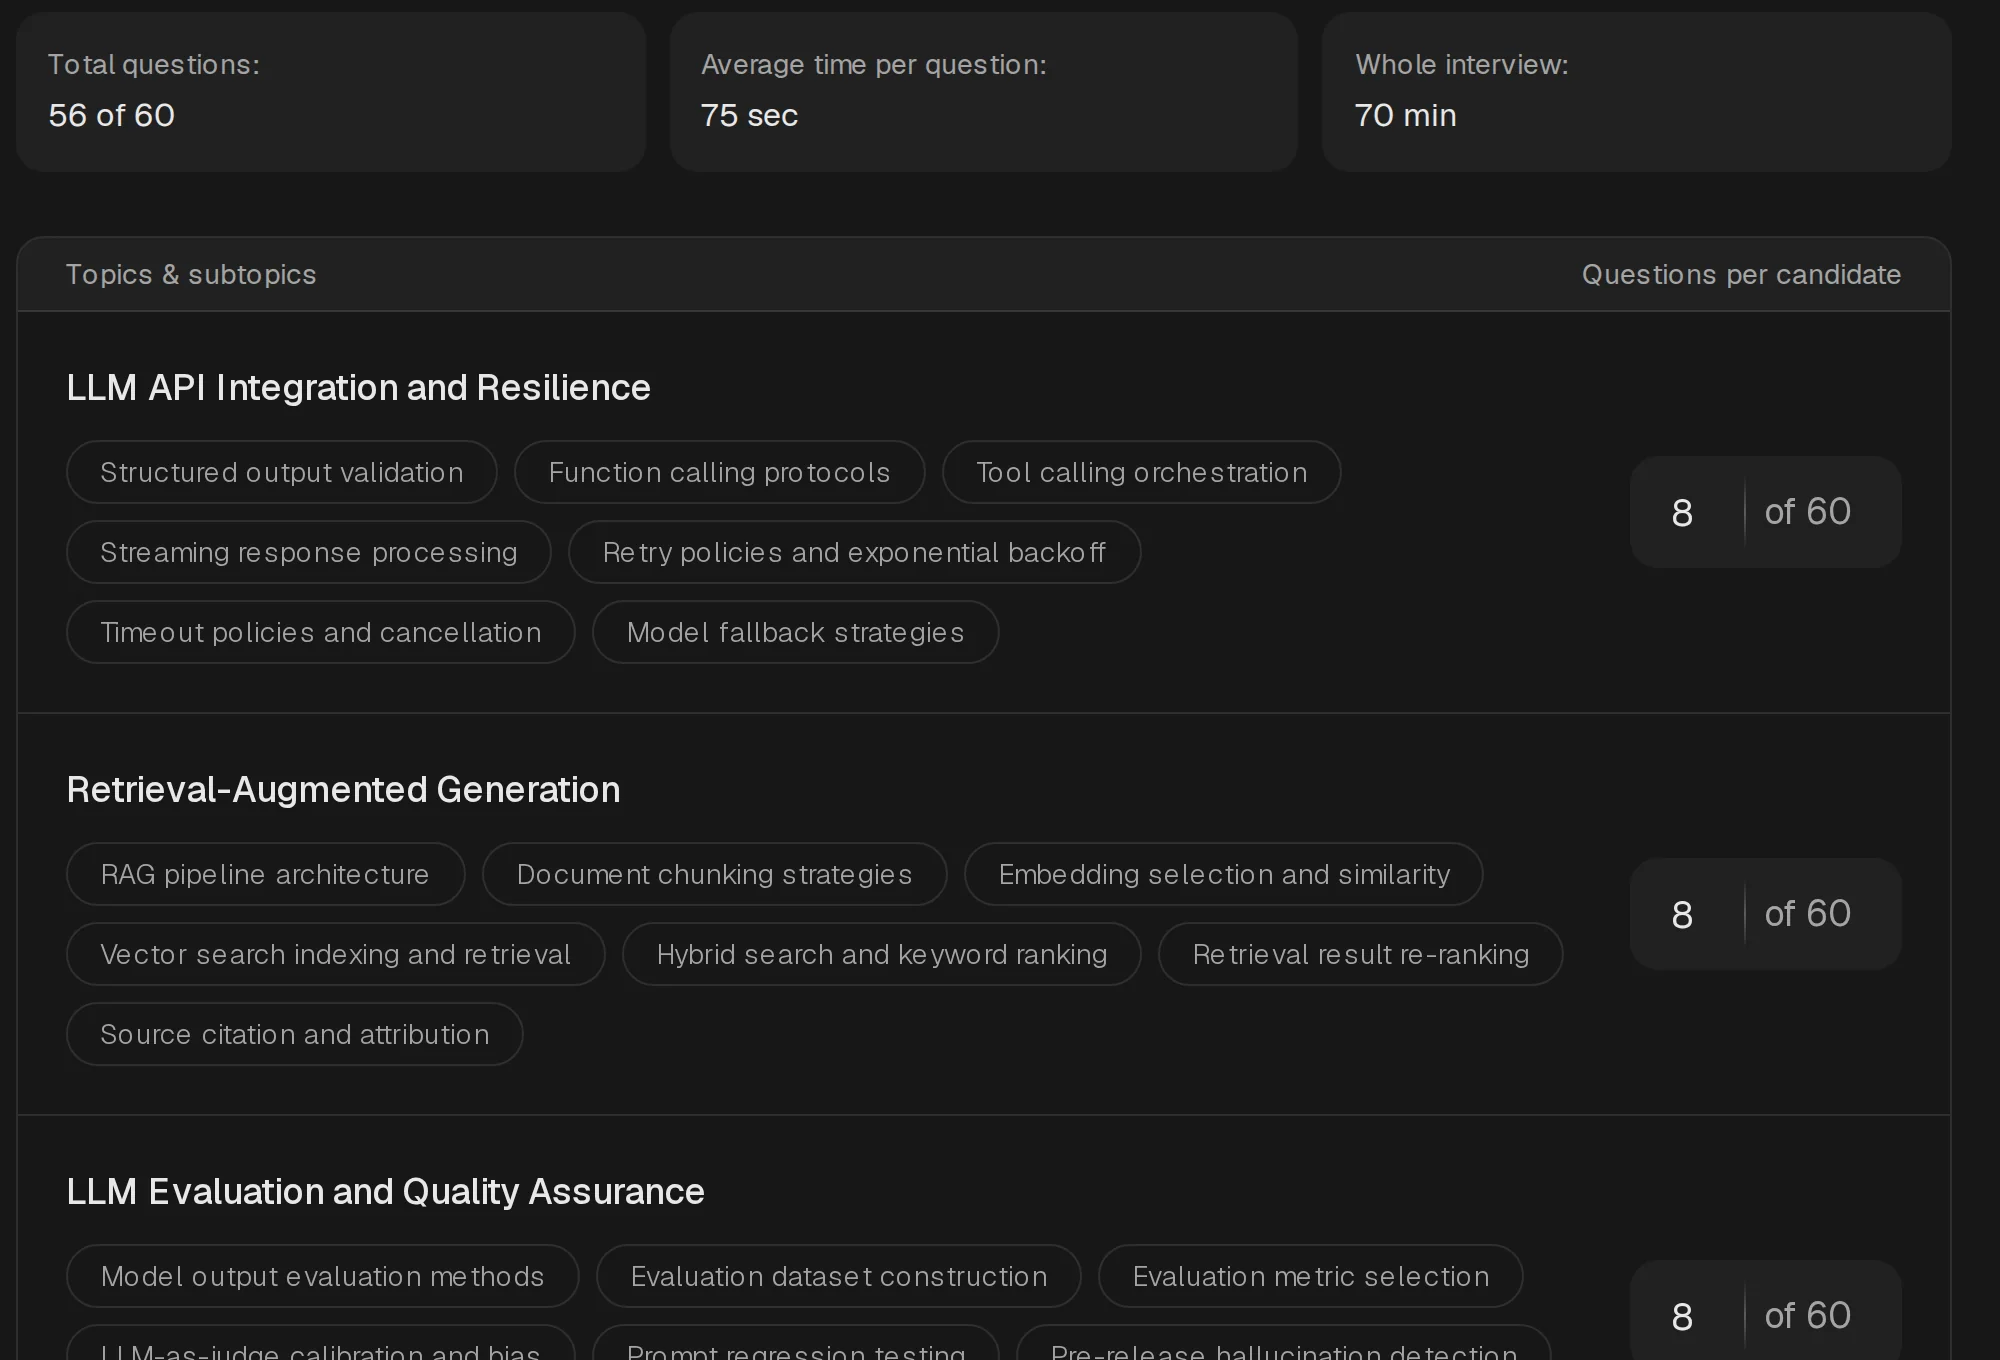
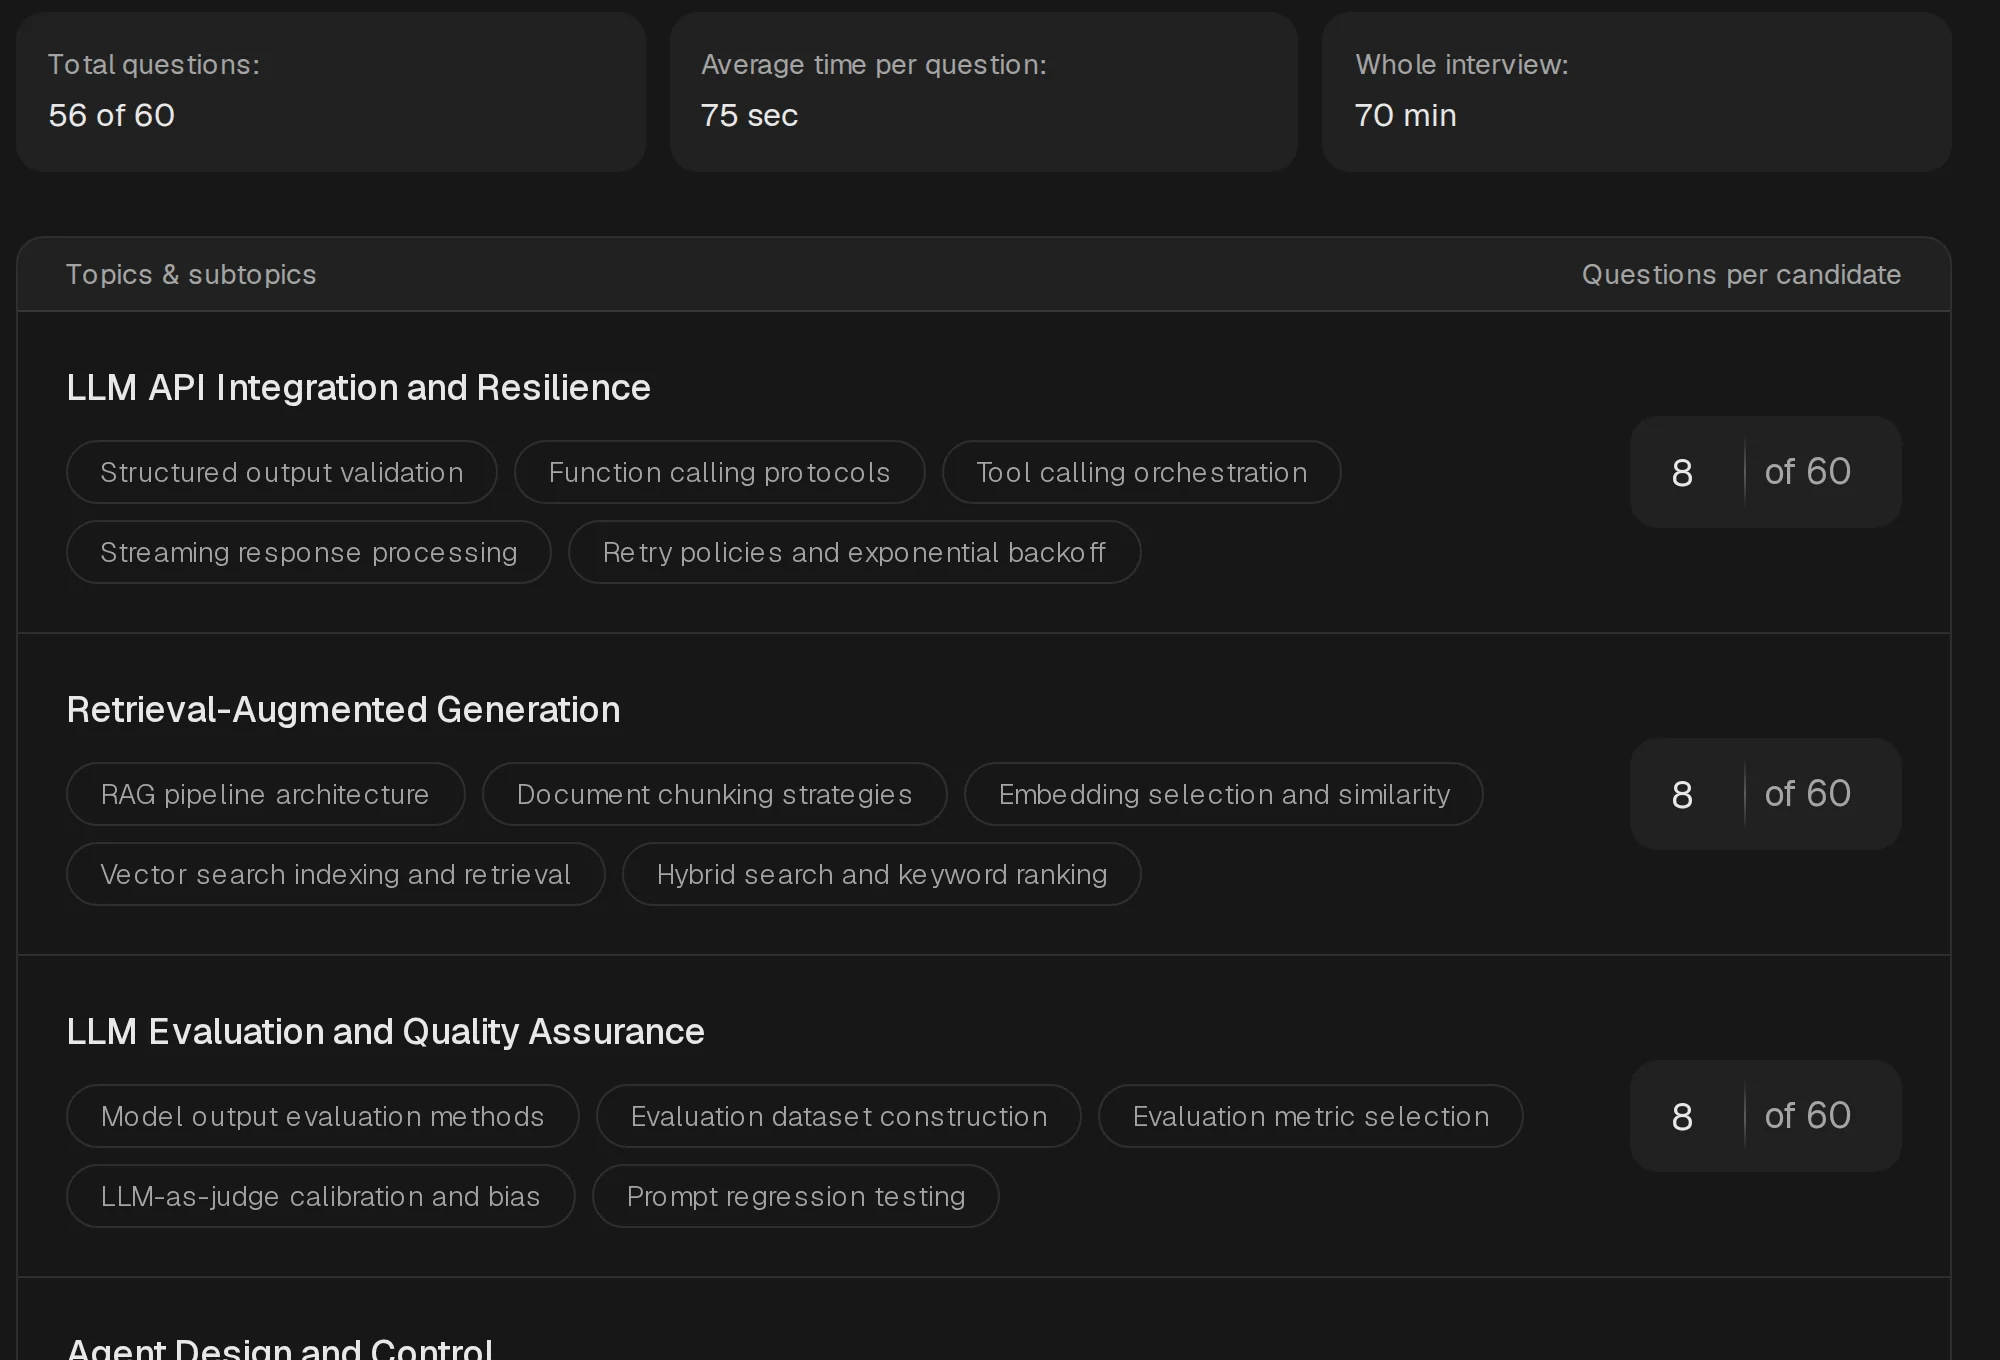
Keep feature pictures within the subtopic limit
The topics picture came from an older local template with seven
subtopics, which a new interview can no longer have, so it showed the
product doing something it does not do.

diff --git a/e2e_tests/signed-in/helpers/feature-shots.ts b/e2e_tests/signed-in/helpers/feature-shots.ts
@@ -36,6 +36,8 @@ export async function pair(page: Page, name: string, ready?: () => Promise<void>
 }
 
 // The topics picture's role and its template.
+// The most subtopics a topic can have (MAX_SUBTOPICS's default, limit_list.py).
+const MAX_SUBTOPICS = 5
 export const SHOT_AI_ROLE = "AI Architect"
 export const SHOT_AI_TEMPLATE = "Senior AI Engineer"
 
@@ -57,8 +59,29 @@ export async function roleInterview(
     { template_id: template.id },
   )
   await api(page, "PATCH", `/companies/interviews/${interview.id}/title`, { title: role })
+  await keepSubtopicLimit(interview.id)
 
   return interview.id
+}
+
+/** An older local template may hold more subtopics than a new interview can: its copy, this
+ * interview's own, is cut to what the product makes today. */
+async function keepSubtopicLimit(interviewId: string) {
+  const setId = await withDatabase("companies", async (client) => {
+    const found = await client.query("SELECT set_id FROM interviews WHERE id = $1", [interviewId])
+
+    return found.rows[0].set_id
+  })
+  await withDatabase("library", (client) =>
+    client.query(
+      `UPDATE topics SET subtopics = (
+         SELECT jsonb_agg(value ORDER BY position)
+         FROM jsonb_array_elements(subtopics) WITH ORDINALITY AS kept(value, position)
+         WHERE position <= $2
+       ) WHERE set_id = $1`,
+      [setId, MAX_SUBTOPICS],
+    ),
+  )
 }
 
 /** The Slack connection's workspace and channel named like the made-up company's. */
